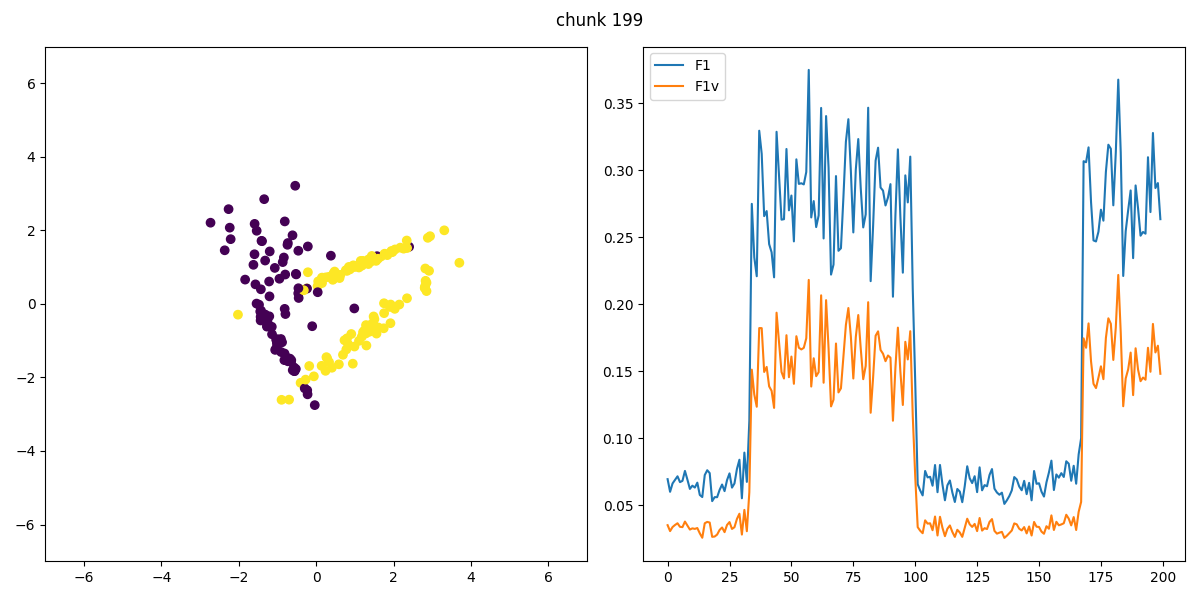
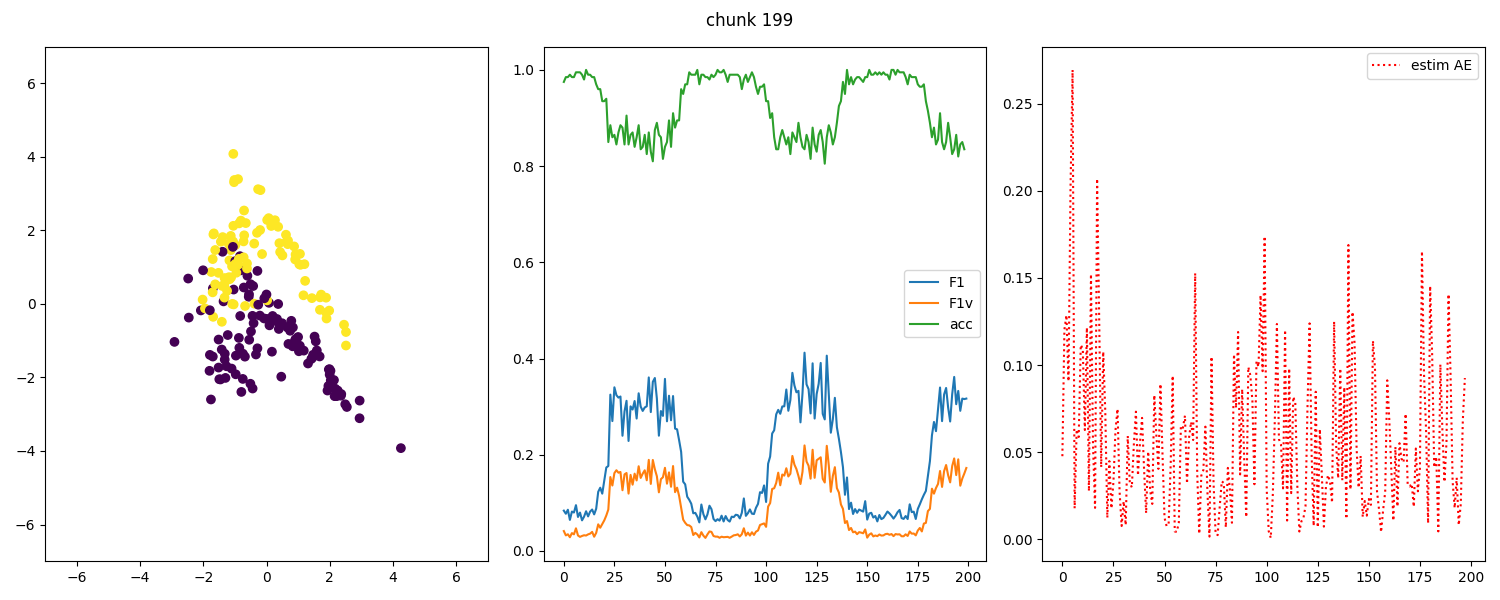
.

diff --git a/vapor/estimator.py b/vapor/estimator.py
@@ -3,6 +3,8 @@ from StreamGenerator import StreamGenerator
 from problexity.classification import f1, f1v
 from sklearn.naive_bayes import GaussianNB
 from sklearn.metrics import accuracy_score
+from sklearn.neural_network import MLPRegressor
+import numpy as np
 
 n_chunks=200
 
@@ -21,34 +23,55 @@ stream = StreamGenerator(n_chunks=n_chunks,
         weights=None,
         incremental=False,
         y_flip=0.01,
-        difficulty_n_drifts=3,
+        difficulty_n_drifts=5,
         difficulty_concept_sigmoid_spacing=9,
-        difficulty_amplitude=1.5,
+        difficulty_amplitude=1.,
         class_sep=1)
 
-fig, ax = plt.subplots(1,2,figsize=(12,6))
+fig, ax = plt.subplots(1,3,figsize=(15,6))
+
 f1_comp = []
 f1v_comp = []
 
 clf_acc = []
 clf = GaussianNB()
 
+estim_err=[]
+reg = MLPRegressor()
+
 for i in range(n_chunks):
     X, y = stream.get_chunk()
+    
+    meta = np.array([np.mean(X[y==0]),
+        np.mean(X[y==1]),
+        np.std(X[y==0]),
+        np.std(X[y==0])
+        ]).reshape(1, -1)
     
     if i!=0:
         #Test
         clf_acc.append(accuracy_score(y_pred=clf.predict(X), y_true=y))
-
+        
      # Train
     clf.fit(X,y)
-     
-        
     
+    
+    if i>0:
+        if i>1:
+            #Test
+            estimated = reg.predict(meta)
+            print(estimated, clf_acc[-1], np.abs(estimated - clf_acc[-1]))
+            estim_err.append(np.abs(estimated - clf_acc[-1]))
+        
+        #Train
+        [reg.partial_fit(meta, [clf_acc[-1]]) for ep in range(20)]
+        
     f1_comp.append(f1(X, y))
     f1v_comp.append(f1v(X, y))
     
     plt.suptitle('chunk %i' % i)
+    
+    
     ax[0].scatter(X[:,0], X[:,1], c=y)
     ax[0].set_xlim(-7,7)
     ax[0].set_ylim(-7,7)
@@ -57,10 +80,15 @@ for i in range(n_chunks):
     ax[1].plot(clf_acc, label='acc')
     ax[1].legend()
     
+    ax[2].plot(estim_err, label='estim AE', c='r', ls=':')
+    ax[2].legend()
+
+    
     plt.tight_layout()
     plt.savefig('foo.png')
     plt.savefig('temp/%04d.png' % i)
     
     ax[0].cla()
     ax[1].cla()
+    ax[2].cla()
 
